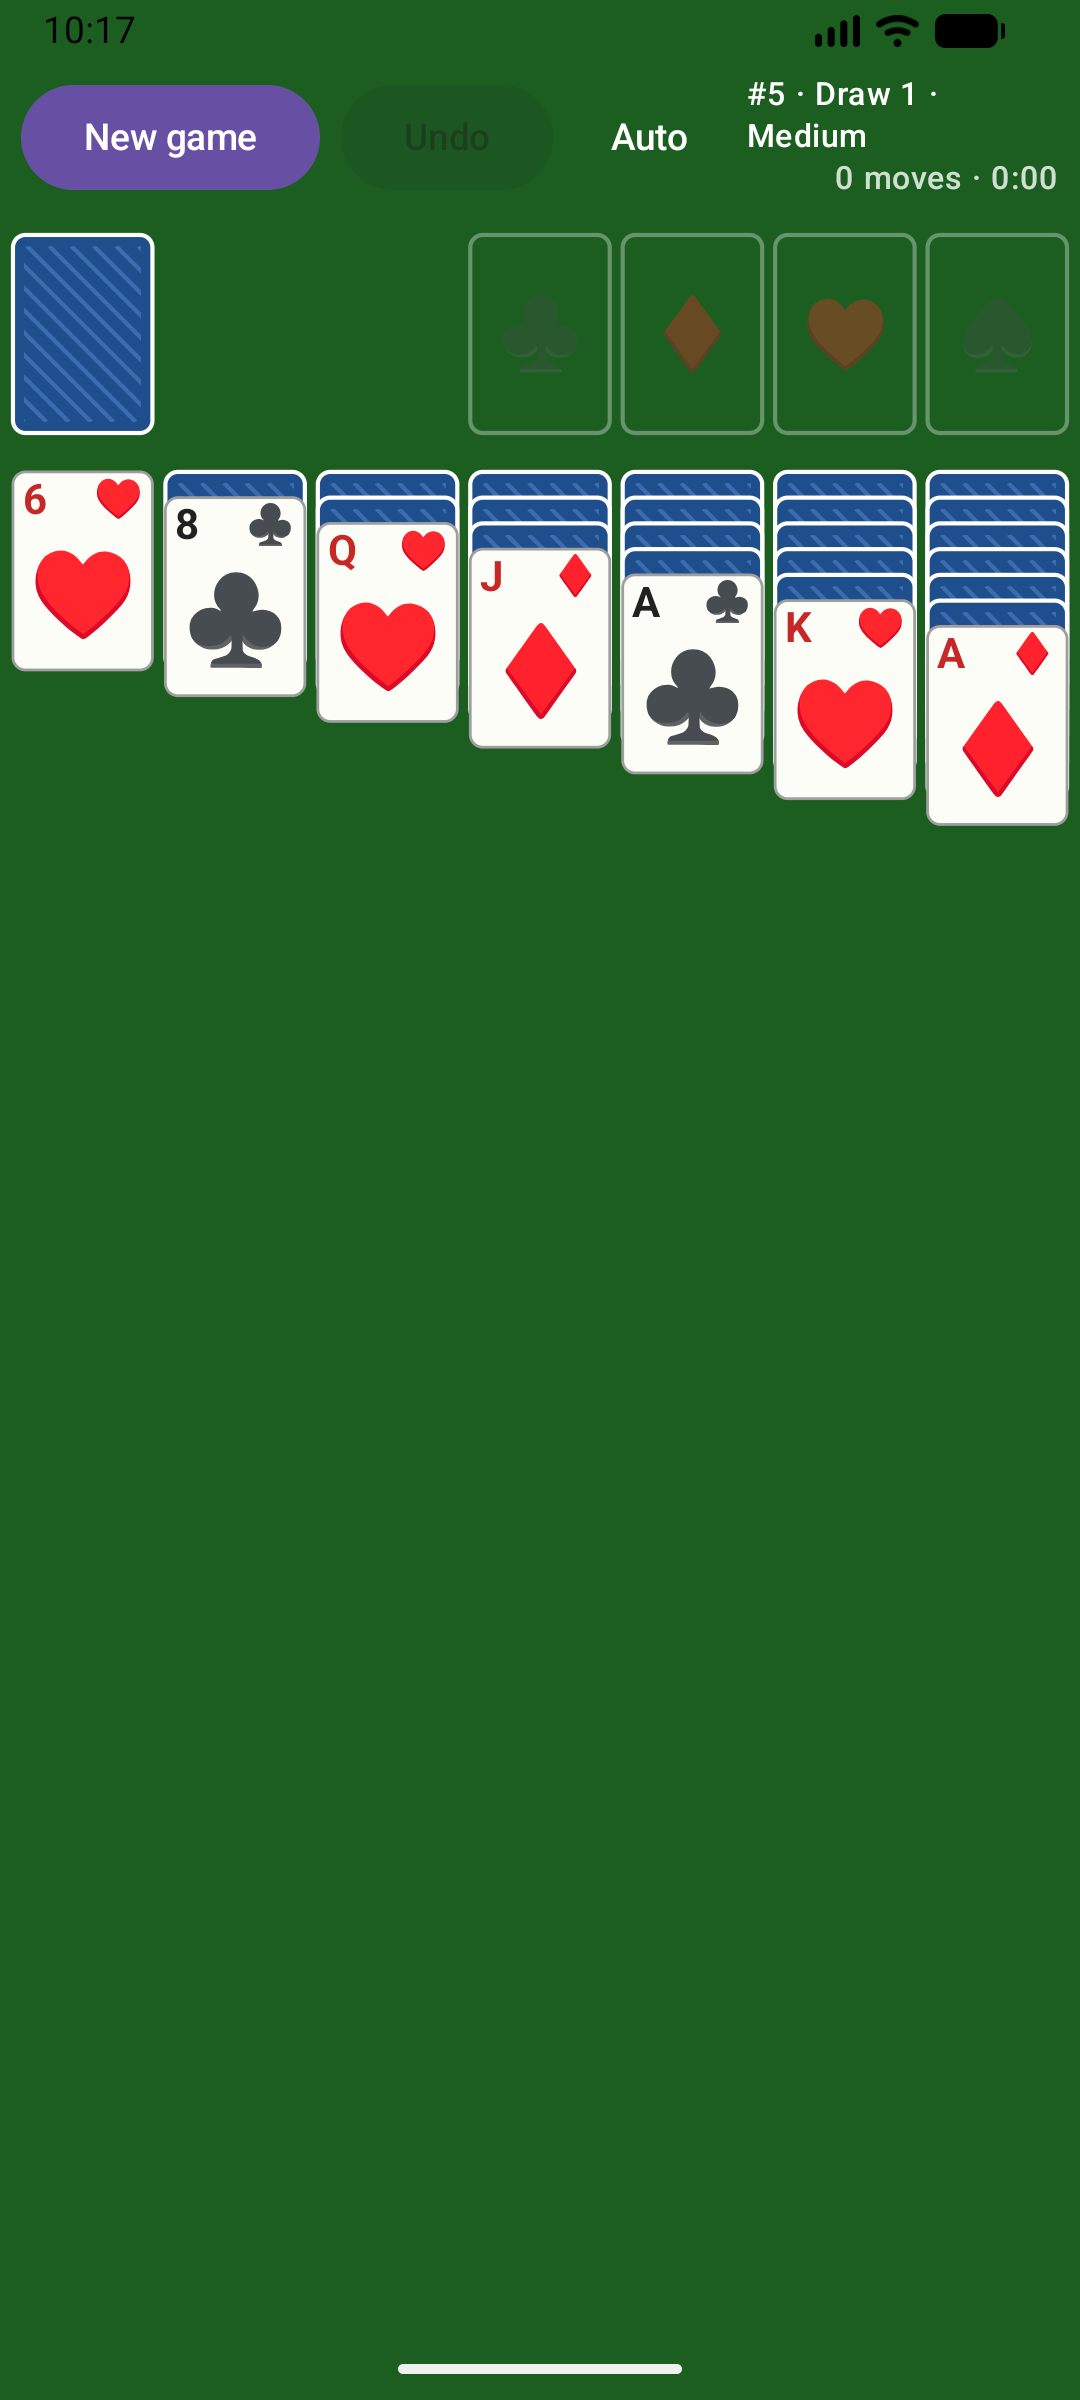
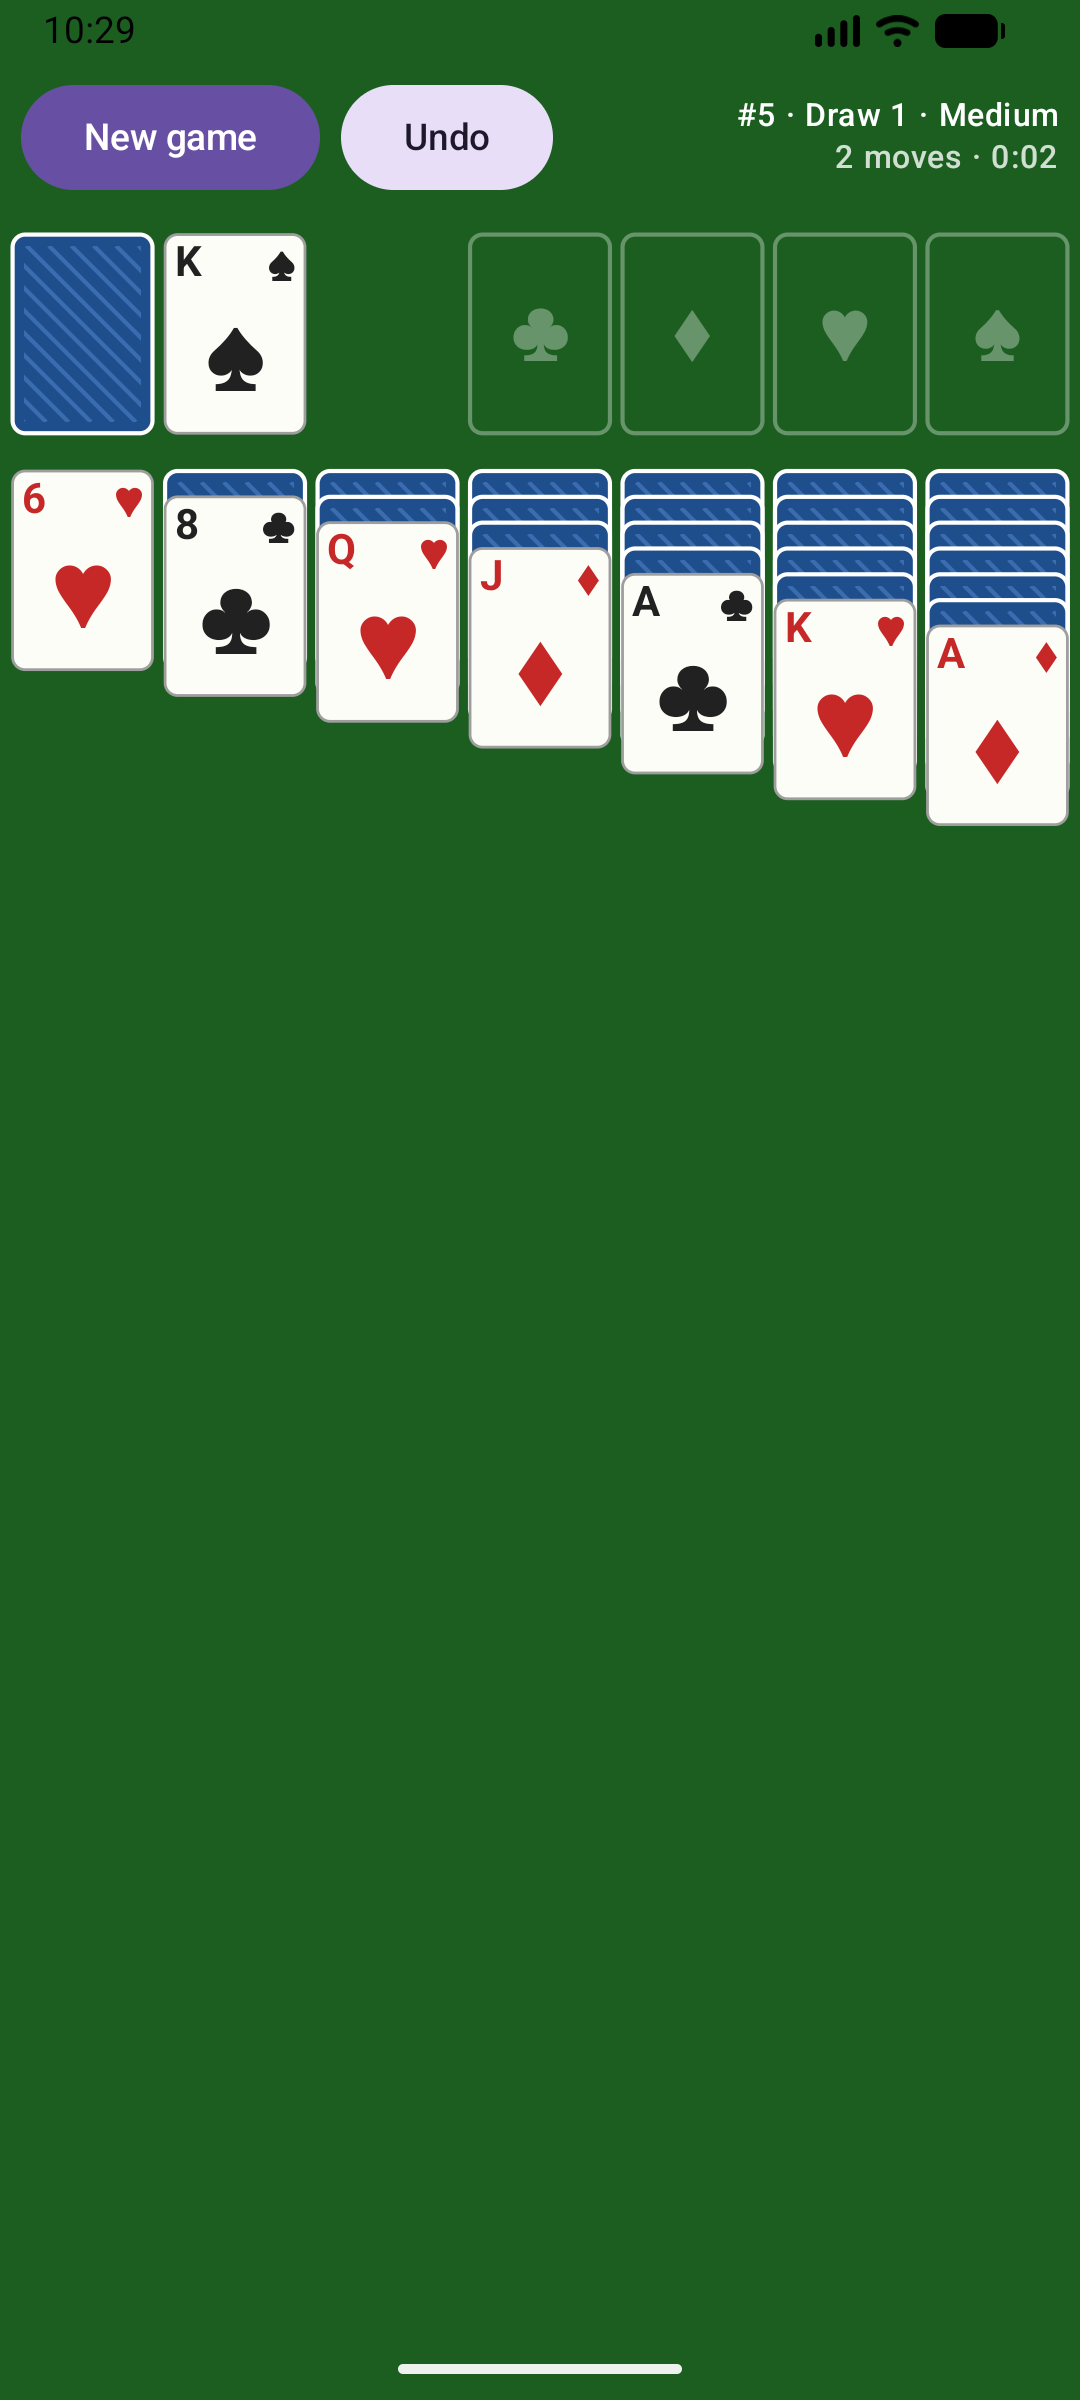
M5-M7: StrictMode fix, release build verified, README screenshots, docs
- SharedPreferences opened lazily off the main thread (StrictMode findings)
- Release APK (R8, 1.0 MB) installed and run on the emulator
- Screenshots in docs/screenshots and fastlane metadata; README gallery
- PROGRESS: M5/M6 scope cut per owner (New game + Undo only)

Claude-Session: https://claude.ai/code/session_01UDAGUW3YN8ZBQY9PfS78i7

diff --git a/app/src/main/kotlin/io/github/thomasvanriel/solitaire/game/DealRepository.kt b/app/src/main/kotlin/io/github/thomasvanriel/solitaire/game/DealRepository.kt
@@ -22,7 +22,8 @@ class ServedDeal(
  * ProofVerifier) right before it is served. A deal whose proof fails is skipped, never served.
  */
 class DealRepository(private val context: Context) {
-    private val prefs = context.getSharedPreferences("deals", Context.MODE_PRIVATE)
+    // Opened lazily: the first access reads from disk, and happens on a background thread.
+    private val prefs by lazy { context.getSharedPreferences("deals", Context.MODE_PRIVATE) }
     private val packs = HashMap<String, DealPack>()
 
     @Synchronized

diff --git a/app/src/main/kotlin/io/github/thomasvanriel/solitaire/game/SavedGameStore.kt b/app/src/main/kotlin/io/github/thomasvanriel/solitaire/game/SavedGameStore.kt
@@ -15,8 +15,9 @@ class SavedGame(
     val elapsedSeconds: Long,
 )
 
-class SavedGameStore(context: Context) {
-    private val prefs = context.getSharedPreferences("game", Context.MODE_PRIVATE)
+class SavedGameStore(private val context: Context) {
+    // Opened lazily: the first access reads from disk, and happens on a background thread.
+    private val prefs by lazy { context.getSharedPreferences("game", Context.MODE_PRIVATE) }
 
     fun save(g: SavedGame) {
         prefs.edit()

diff --git a/PROGRESS.md b/PROGRESS.md
@@ -260,3 +260,51 @@ Every `Solved` proof verified.
   presentation), but the APK hasn't been rebuilt yet.
 - An autoplay intent sent while the app is already open is dropped by Android: use `am start -S`.
 - The clock keeps counting while the autoplay runs; harmless.
+
+## M5: Solver-powered features (cut down, agreed with the owner)
+- **Dropped** because the owner wants only New game and Undo: hints, the "still winnable?" check,
+  fresh on-device deals and the daily deal. There's no solver on the device at all, so the UI can't freeze
+  on it.
+- **Kept**: auto-complete (when everything is face up and the stock is empty, the game plays the cards up),
+  and StrictMode in debug builds.
+- StrictMode on the device found 3 main-thread disk reads at startup (about 40 ms each) from
+  `getSharedPreferences` in the `DealRepository` and `SavedGameStore` constructors. **Fixed**: the
+  preferences now open lazily, and the first access happens on `Dispatchers.IO`. Not yet re-checked on the
+  device; that needs the next owner build.
+
+## M6: Polish (cut down)
+- Suit symbols use U+FE0E (text presentation), so ♥ ♦ no longer show as colour emoji.
+- **Landscape and tablets**: card size is limited by height as well as width, and the board is centred.
+  Checked in `screenshots/m6-landscape.png`; the game carried through the rotation.
+- **Dark mode**: a darker felt and Material dark colours (`screenshots/m6-dark.png`, `m6-dark-dialog.png`).
+- **App icon**: an original adaptive vector icon (card back behind a heart card) with a monochrome layer
+  for themed icons.
+- **About**: instead of a separate screen, the New game dialog explains the guarantee in plain words:
+  every deal has a checked winning sequence, you can't see face-down cards, so you may get stuck and
+  should use Undo.
+- **Accessibility**: the board has a screen-reader description. Full TalkBack move-by-move control, stats,
+  settings, animations, haptics, a 4-colour deck and left-handed mode were dropped to keep the app simple.
+
+## M7: Release preparation
+- Release build: R8 minification and resource shrinking, plus `proguard-rules.pro` (no extra rules needed).
+  The release APK is 1.0 MB (the debug APK is 12 MB).
+- Signing:
+  - `keystore.properties` (git-ignored, created by the owner only) is used when present; otherwise the APK
+    is unsigned.
+  - `-PsignReleaseWithDebugKey` signs with the local debug key, for device testing only.
+  - **The agent created no keys.** `RELEASING.md` gives the `keytool` steps for the owner.
+- The owner built `:engine:test :app:assembleDebug :app:lint :app:assembleRelease -PsignReleaseWithDebugKey`:
+  **success**.
+- The release APK was installed on the emulator and runs (no crash after R8). The debug Auto button is
+  absent, as intended (`screenshots/m7-release.png`).
+- Docs: full README (features, how the guarantee works, layout, build, benchmark, deal packs with the
+  dealgen command, debug tools, and screenshots in `docs/screenshots/`), `CONTRIBUTING.md`, `RELEASING.md`.
+- Store listing: `fastlane/metadata/android/en-US/` holds the title, short and full description, and 4 phone
+  screenshots.
+
+### Known issues / for later
+- The StrictMode fix still needs a device re-check after the next build.
+- Only 10 deals per tier ship for now; regenerate with `--per-tier 2500` before a public release.
+- The time on the win screen can read 0:00 after the debug autoplay. Normal play counts time correctly.
+- Undo still works through the win overlay. Harmless, arguably useful.
+- No GitHub remote yet. Add a source-code link to the store text once the repository is public.

diff --git a/README.md b/README.md
@@ -6,6 +6,14 @@ the game's own rules engine before it is dealt to you.
 
 No ads, no analytics, no accounts, and no network access (the app has no `INTERNET` permission).
 
+## Screenshots
+
+| Start | Mid-game | Won | New game (dark mode) |
+|:---:|:---:|:---:|:---:|
+| <img src="docs/screenshots/start.png" width="200" alt="A fresh deal"> | <img src="docs/screenshots/mid-game.png" width="200" alt="A game in progress"> | <img src="docs/screenshots/win.png" width="200" alt="The win screen"> | <img src="docs/screenshots/new-game-dark.png" width="200" alt="The New game dialog in dark mode"> |
+
+<img src="docs/screenshots/landscape.png" width="620" alt="The board in landscape">
+
 ## Features
 
 - Klondike with draw 1 or draw 3, unlimited passes through the stock.
